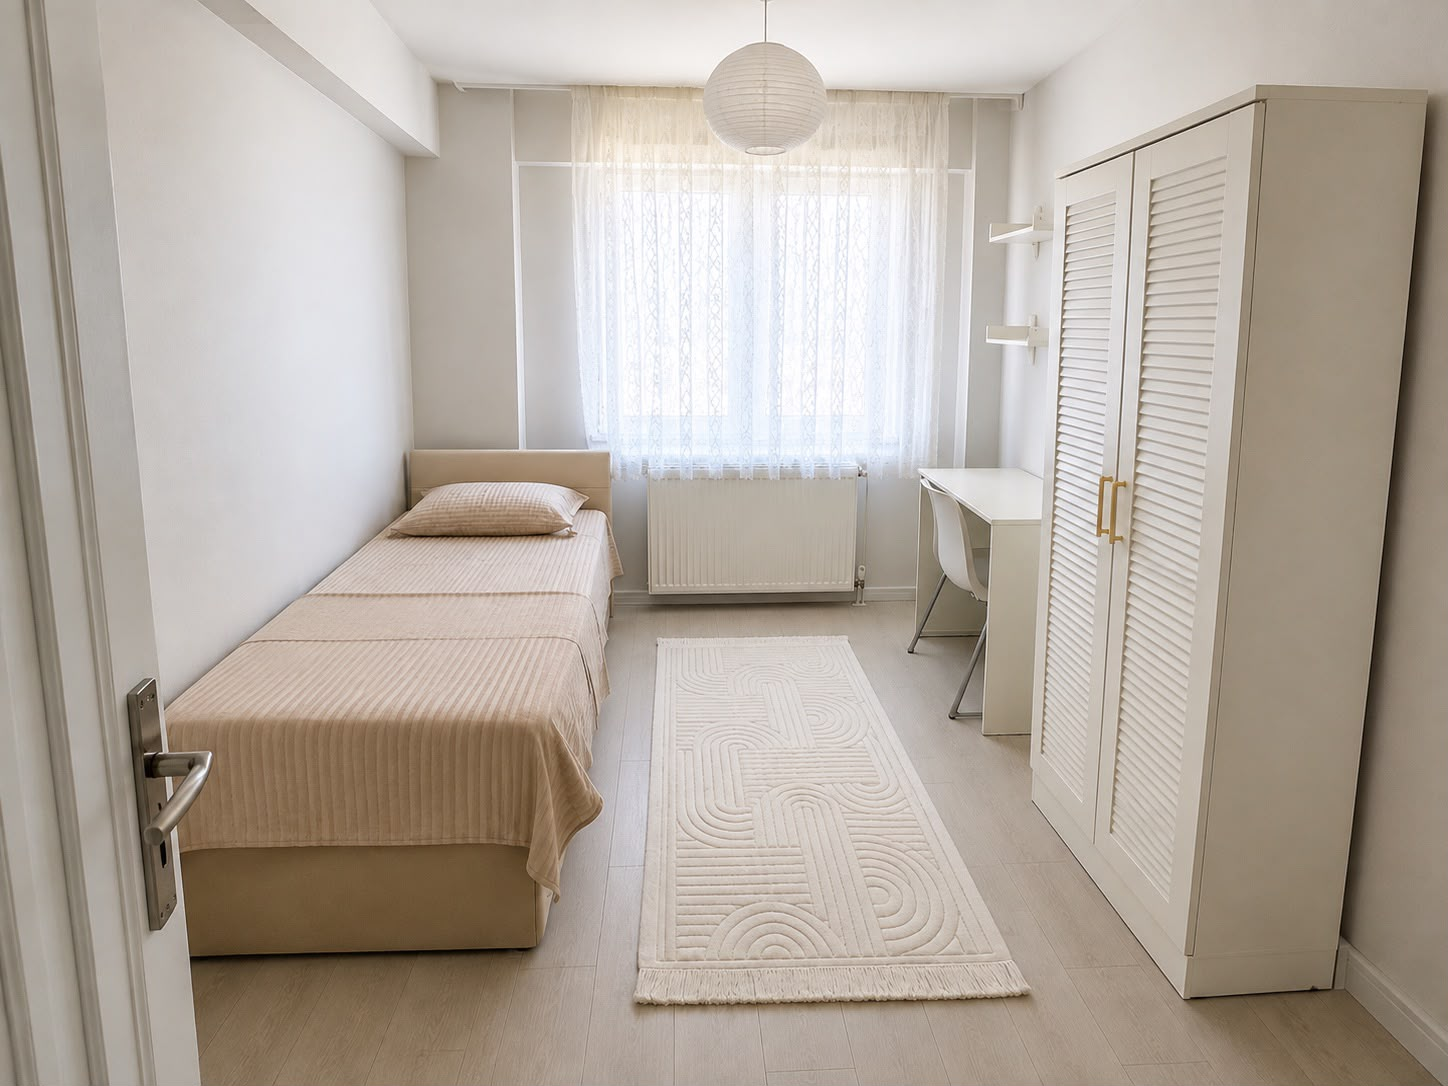
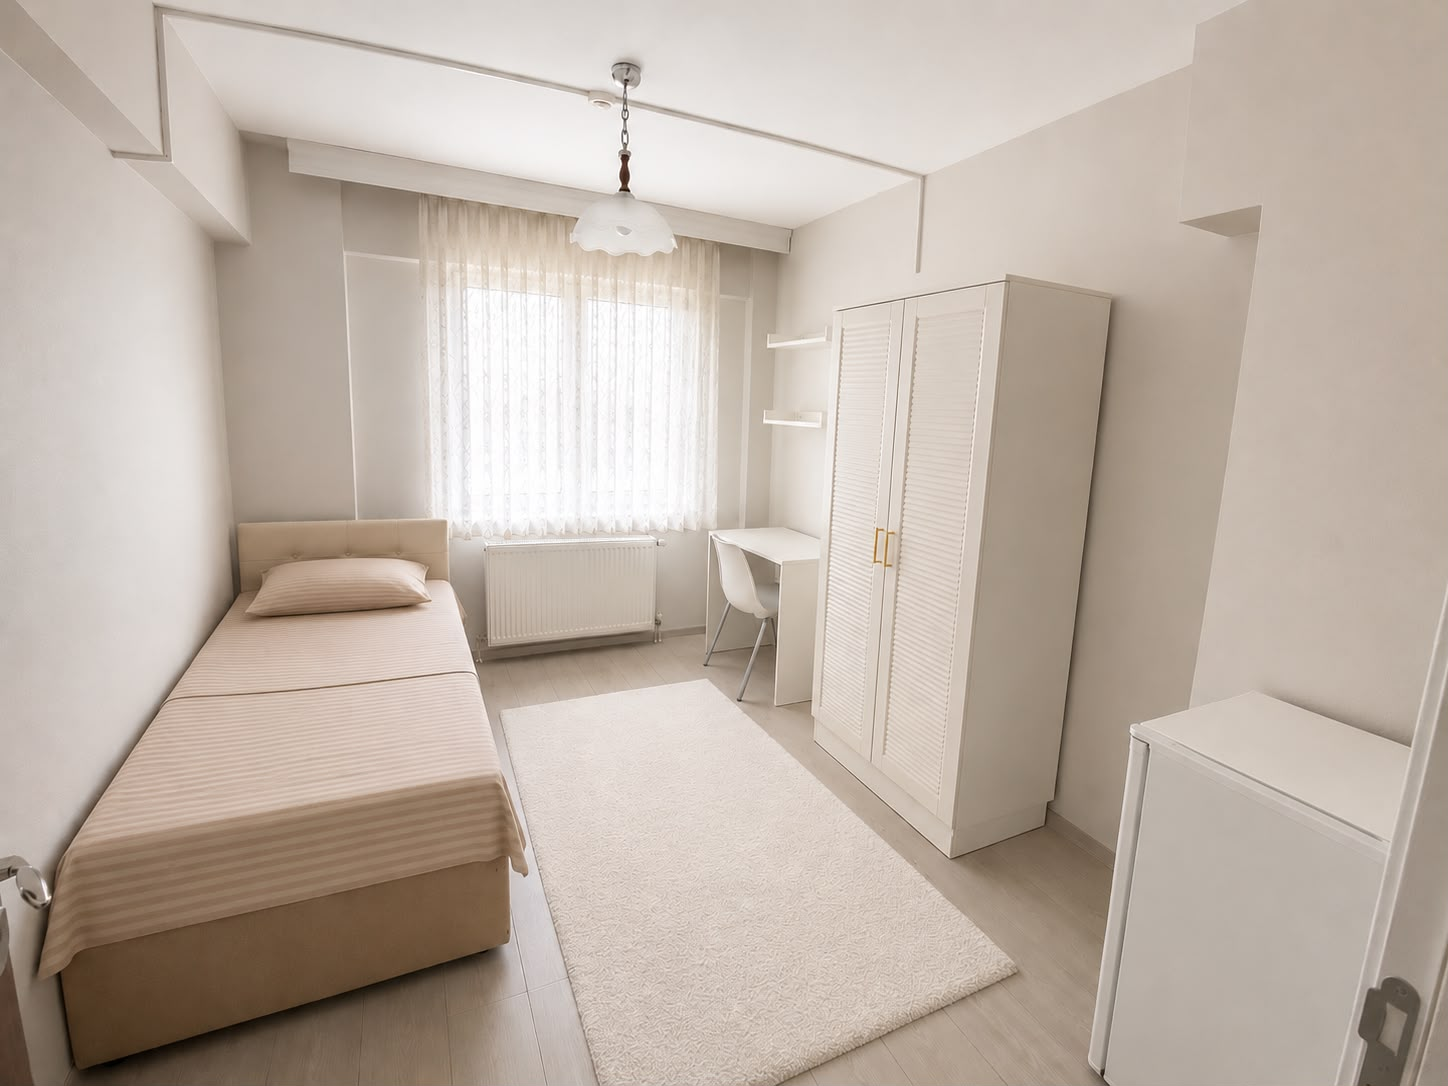
last_versiyon
last_versiyon

diff --git a/src/lib/gallery.ts b/src/lib/gallery.ts
@@ -27,7 +27,7 @@ export const galleryItems: GalleryItem[] = [
   { id: "singleRoom", category: "rooms", src: "/photos/single_room.jpeg" },
   { id: "doubleRoom", category: "rooms", src: "/photos/double_room.jpeg" },
   { id: "tripleRoom", category: "rooms", src: "/photos/triple_room.jpeg" },
-  { id: "deskArea", category: "rooms" }, // eksik
+  { id: "deskArea", category: "rooms", src: "/photos/study_desk.jpeg" },
   {
     id: "wardrobes",
     category: "rooms",
@@ -38,10 +38,13 @@ export const galleryItems: GalleryItem[] = [
   { id: "lounge", category: "common", src: "/photos/rest_room.jpeg" },
   { id: "guestRoom", category: "common", src: "/photos/visitior_room.jpeg" },
   { id: "laundry", category: "common", src: "/photos/laundry.jpeg" },
-  { id: "ironing", category: "common" }, // eksik
+  { id: "ironing", category: "common", src: "/photos/utu_alani.jpeg" },
   { id: "kitchen", category: "common", src: "/photos/kitchen.jpeg" },
-  { id: "exterior", category: "building" }, // eksik
-  { id: "entrance", category: "building" }, // eksik
-  { id: "corridor", category: "building" }, // eksik
-  { id: "garden", category: "building" }, // eksik
+  { id: "exterior", category: "building", src: "/photos/building.jpeg" },
+  {
+    id: "entrance",
+    category: "building",
+    src: "/photos/building_entrance.jpeg",
+  },
+  { id: "garden", category: "building", src: "/photos/garden.jpeg" },
 ];

diff --git a/src/lib/content.ts b/src/lib/content.ts
@@ -120,12 +120,15 @@ export const homePhotos: {
 } = {
   intro: { id: "guestRoom", src: "/photos/visitior_room.jpeg" },
   preview: [
+    { id: "exterior", src: "/photos/building.jpeg" },
+    { id: "entrance", src: "/photos/building_entrance.jpeg" },
     { id: "studyHall", src: "/photos/study_room.jpeg" },
     { id: "lounge", src: "/photos/rest_room.jpeg" },
-    { id: "studentRoom", src: "/photos/single_room.jpeg" },
-    { id: "doubleRoom", src: "/photos/double_room.jpeg" },
   ],
 };
 
-/** Hakkımızda sayfasındaki bina fotoğrafı (4:5 dikey). Henüz çekilmedi. */
-export const aboutPhoto: { id: PhotoId; src?: string } = { id: "building" };
+/** Hakkımızda sayfasındaki fotoğraf (4:5 dikey). */
+export const aboutPhoto: { id: PhotoId; src?: string } = {
+  id: "entrance",
+  src: "/photos/building_entrance.jpeg",
+};

diff --git a/src/i18n/dictionaries/en.ts b/src/i18n/dictionaries/en.ts
@@ -274,7 +274,6 @@ export const en: Dictionary = {
       kitchen: "Kitchen",
       exterior: "Exterior view of the dormitory",
       entrance: "Dormitory entrance",
-      corridor: "Corridor",
       garden: "Garden",
     },
     ctaTitle: "Seeing it in person is best",

diff --git a/src/i18n/dictionaries/tr.ts b/src/i18n/dictionaries/tr.ts
@@ -278,7 +278,6 @@ export const tr = {
       kitchen: "Mutfak",
       exterior: "Yurt binası dış görünüm",
       entrance: "Yurt girişi",
-      corridor: "Koridor",
       garden: "Bahçe",
     },
     ctaTitle: "Yerinde görmek en iyisi",
